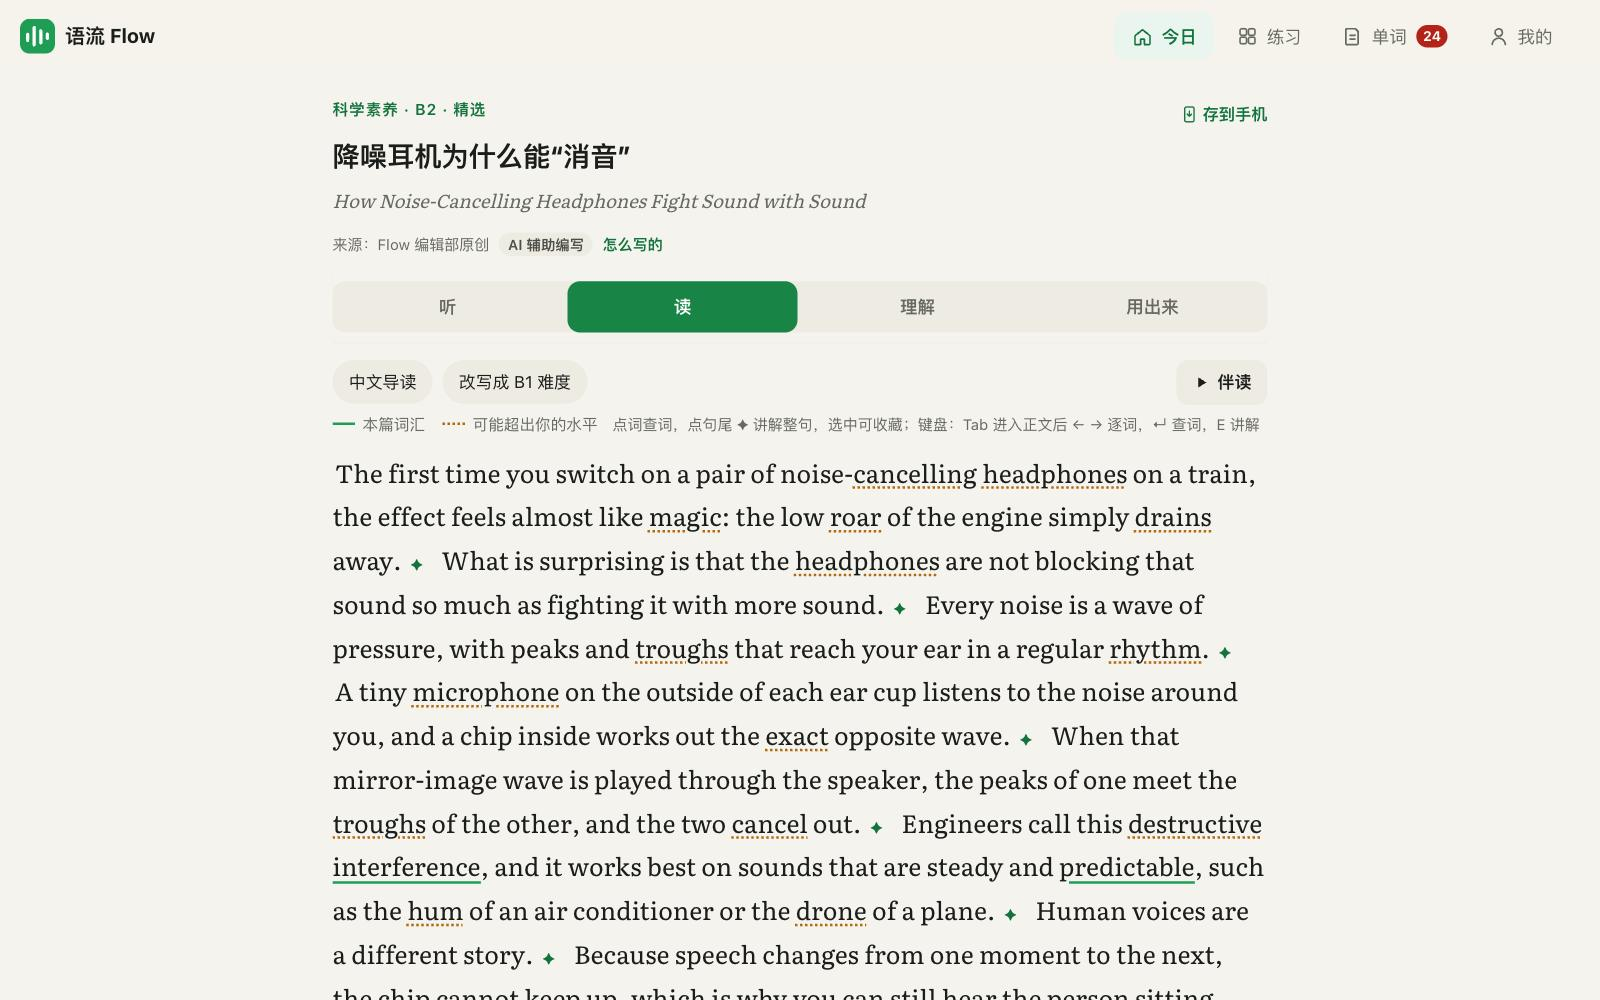
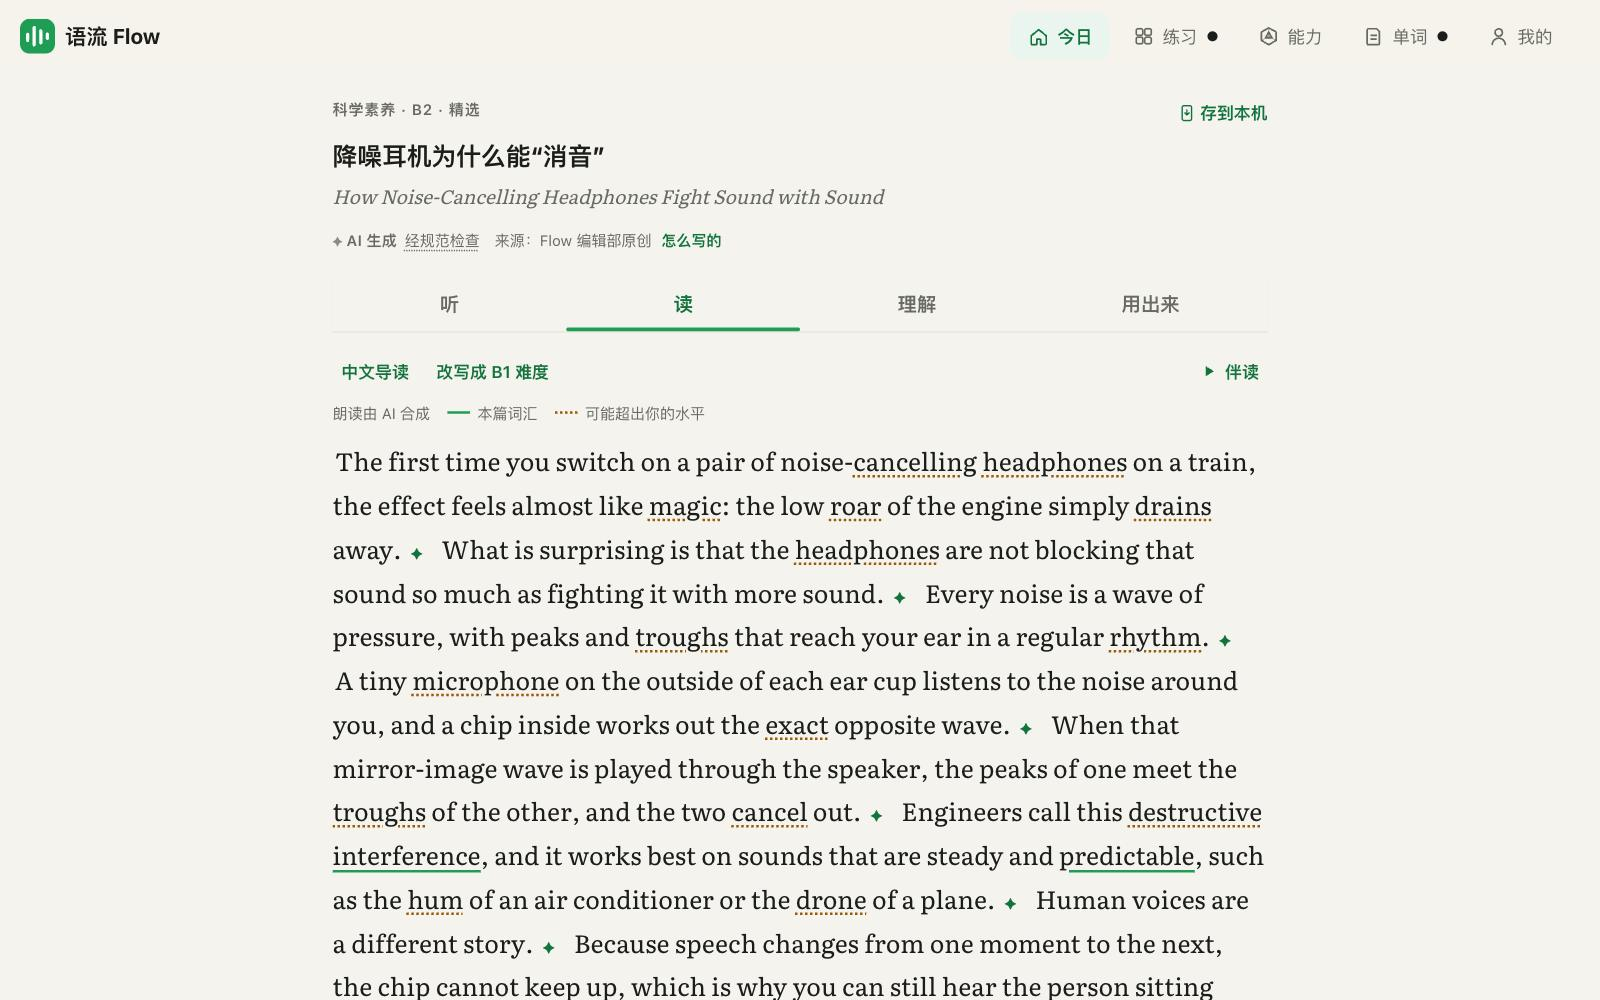
认识语流：截图照现在的界面重拍（底栏五格、小圆点、今日的列表和卡片、新的复习卡）
宣传页不能比产品旧（A0 转用户）：today、listen、read、check、output、review、desk 明暗两套和 share 用 tools/about_shots.py
在本机演示数据上重拍。工具跟上现在的页面：听的提示是空的时不再报错；复习卡上第一次的分区引导和各页「知道了」那种一次性提示不进截图。

diff --git a/tools/about_shots.py b/tools/about_shots.py
@@ -26,7 +26,8 @@ def today(pg):
 def listen(pg):
     # The local server has no narration files; on the site this material is read by four real voices, so its tip
     # does not carry the "no recording yet" line.
-    pg.evaluate("() => { const t = document.querySelector('.listen-tip'); if (t) t.firstChild.nodeValue = t.firstChild.nodeValue.replace('这篇还没有录音，先用浏览器朗读。', ''); }")
+    # (the tip is empty when the AI voice reads it, 21-study-listen.js: then there is nothing to take out)
+    pg.evaluate("() => { const t = document.querySelector('.listen-tip'); if (t && t.firstChild) t.firstChild.nodeValue = t.firstChild.nodeValue.replace('这篇还没有录音，先用浏览器朗读。', ''); }")
 
 
 def check(pg):
@@ -41,6 +42,9 @@ def output(pg):
 
 def review(pg):
     pg.wait_for_selector('#view .review', timeout=6000)
+    # the first-visit guide drawn over the card (60-review.js #zoneGuide, put away by the first tap) is not the card
+    pg.wait_for_timeout(800)
+    pg.evaluate("() => { const g = document.getElementById('zoneGuide'); if (g) g.remove(); }")
 
 
 # name -> (page, extra step or None, viewport)
@@ -115,7 +119,8 @@ def main(only):
                 pg.wait_for_timeout(700)
                 if step:
                     step(pg)
-                pg.evaluate("() => { const t = document.getElementById('toast'); if (t) t.style.display = 'none'; window.scrollTo(0, 0); }")
+                # the toast and the one-time tips (08-tips.js .tip-once, 「知道了」) belong to a first visit, not to the page shown
+                pg.evaluate("() => { const t = document.getElementById('toast'); if (t) t.style.display = 'none'; document.querySelectorAll('#view .tip-once').forEach(e => e.remove()); window.scrollTo(0, 0); }")
                 pg.wait_for_timeout(300)
                 out = OUT / f'{name}{suffix}.jpg'
                 pg.screenshot(path=str(out), type='jpeg', quality=70 if phone else 74)
